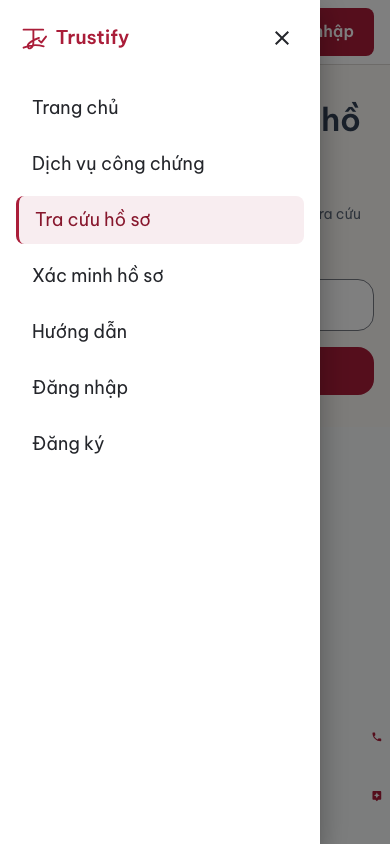
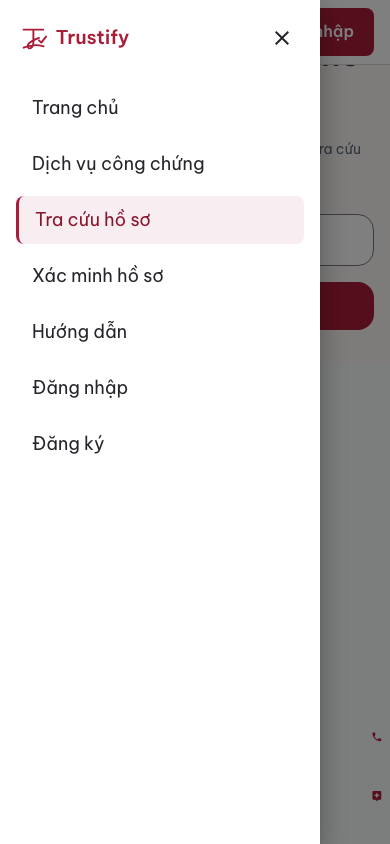
fix: make public skip link bypass header navigation

Changed region(s): [[0.8, 0.3081, 0.9846, 0.4929], [0.8308, 0.1232, 0.9231, 0.1848], [0.8308, 0.2464, 0.9231, 0.2773]]

diff --git a/src/App.js b/src/App.js
@@ -100,10 +100,9 @@ function App() {
       <Suspense fallback={<Loader />}>
         <CssBaseline />
         <ScrollToTop />
-        <Box sx={{ display: { xs: 'block', md: 'flex' }, minHeight: '100dvh' }}>
-          {isAuthenticated && <Sidebar />}
+        <Box sx={{ display: { xs: 'block', md: isAuthenticated ? 'flex' : 'block' }, minHeight: '100dvh' }}>
+          {isAuthenticated ? <Sidebar /> : <Header />}
           <Box component={isAuthenticated ? 'main' : 'div'} id="page-content" tabIndex={-1} sx={{ flex: 1, minWidth: 0, width: '100%' }}>
-            {!isAuthenticated && <Header />}
             <Routes>
               {/* Public Routes */}
               <Route

diff --git a/docs/design/screenshots/03b/README.md b/docs/design/screenshots/03b/README.md
@@ -273,3 +273,5 @@ Known existing content overflow remains on Home(703px), Services(399px) and User
 ## Public mobile navigation
 
 ![Menu](after-menu-mobile.png)
+
+Pre-review accessibility correction: public Header now sits outside the page-content target. After activating the skip link, the next Tab bypasses the header. Fresh local screenshot/focus/build/ESLint checks pass.
